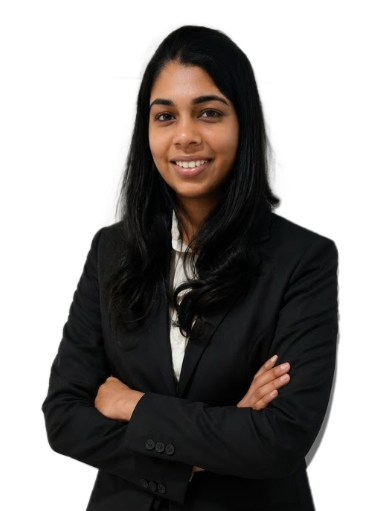
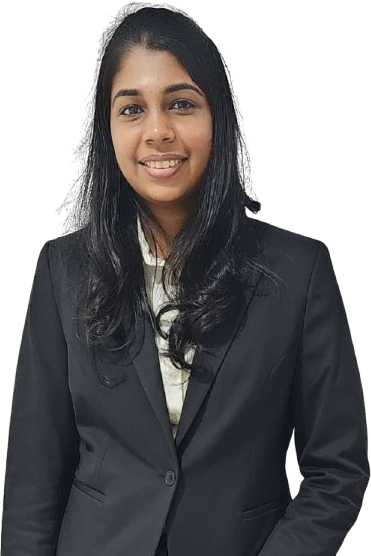
feat: replace hero portrait with new high-resolution photo in exact same size and position

diff --git a/index.html b/index.html
@@ -15,7 +15,7 @@
   <link rel="preconnect" href="https://fonts.gstatic.com" crossorigin>
   <link href="https://fonts.googleapis.com/css2?family=Instrument+Serif:ital@0;1&family=JetBrains+Mono:wght@300;400;500;600&family=Plus+Jakarta+Sans:wght@300;400;500;600;700&family=Syne:wght@400;600;700;800&display=swap" rel="stylesheet">
   
-  <link rel="stylesheet" href="style.css?v=3.4">
+  <link rel="stylesheet" href="style.css?v=3.5">
 </head>
 <body>
 
@@ -105,7 +105,7 @@
       <div class="hero-portrait-stage">
         <div class="hero-portrait-container" id="heroPortraitContainer">
           <img 
-            src="assets/shruthi-human.png?v=3.2" 
+            src="assets/shruthi-human.png?v=3.5" 
             alt="Shruthi Sundar — Product Thinker" 
             class="hero-image human-base" 
             id="humanBaseImg"
@@ -797,6 +797,6 @@
 
   </div>
 
-  <script src="main.js?v=3.4"></script>
+  <script src="main.js?v=3.5"></script>
 </body>
 </html>

diff --git a/style.css b/style.css
@@ -460,8 +460,8 @@ body.nav-locked {
 
 .hero-portrait-container {
   position: relative;
-  width: clamp(380px, 32vw, 520px);
-  aspect-ratio: 380 / 511;
+  width: clamp(370px, 31vw, 510px);
+  aspect-ratio: 371 / 556;
   max-width: 90vw;
   margin: 0 auto;
   user-select: none;
@@ -2810,7 +2810,7 @@ body.nav-locked {
     height: clamp(340px, 48vh, 460px);
     max-height: 48vh;
     width: auto;
-    aspect-ratio: 380 / 511;
+    aspect-ratio: 371 / 556;
     max-width: 88vw;
     margin: 0 auto;
   }
@@ -2866,6 +2866,7 @@ body.nav-locked {
   .hero-portrait-container {
     height: clamp(320px, 48vh, 430px);
     max-height: 48vh;
+    aspect-ratio: 371 / 556;
     max-width: 88vw;
   }
   .hero-statement-section {

diff --git a/ai-virtual-tryon.html b/ai-virtual-tryon.html
@@ -14,7 +14,7 @@
   <link rel="preconnect" href="https://fonts.gstatic.com" crossorigin>
   <link href="https://fonts.googleapis.com/css2?family=Instrument+Serif:ital@0;1&family=JetBrains+Mono:wght@300;400;500;600&family=Plus+Jakarta+Sans:wght@300;400;500;600;700&family=Syne:wght@400;600;700;800&display=swap" rel="stylesheet">
   
-  <link rel="stylesheet" href="style.css?v=3.4">
+  <link rel="stylesheet" href="style.css?v=3.5">
 </head>
 <body class="case-study-page-wrapper">
 
@@ -160,6 +160,6 @@
 
   </main>
 
-  <script src="main.js?v=3.4"></script>
+  <script src="main.js?v=3.5"></script>
 </body>
 </html>

diff --git a/dine-in-now.html b/dine-in-now.html
@@ -14,7 +14,7 @@
   <link rel="preconnect" href="https://fonts.gstatic.com" crossorigin>
   <link href="https://fonts.googleapis.com/css2?family=Instrument+Serif:ital@0;1&family=JetBrains+Mono:wght@300;400;500;600&family=Plus+Jakarta+Sans:wght@300;400;500;600;700&family=Syne:wght@400;600;700;800&display=swap" rel="stylesheet">
   
-  <link rel="stylesheet" href="style.css?v=3.4">
+  <link rel="stylesheet" href="style.css?v=3.5">
 </head>
 <body class="case-study-page-wrapper">
 
@@ -160,6 +160,6 @@
 
   </main>
 
-  <script src="main.js?v=3.4"></script>
+  <script src="main.js?v=3.5"></script>
 </body>
 </html>

diff --git a/job-tracker.html b/job-tracker.html
@@ -14,7 +14,7 @@
   <link rel="preconnect" href="https://fonts.gstatic.com" crossorigin>
   <link href="https://fonts.googleapis.com/css2?family=Instrument+Serif:ital@0;1&family=JetBrains+Mono:wght@300;400;500;600&family=Plus+Jakarta+Sans:wght@300;400;500;600;700&family=Syne:wght@400;600;700;800&display=swap" rel="stylesheet">
   
-  <link rel="stylesheet" href="style.css?v=3.4">
+  <link rel="stylesheet" href="style.css?v=3.5">
 </head>
 <body class="case-study-page-wrapper">
 
@@ -206,6 +206,6 @@
 
   </main>
 
-  <script src="main.js?v=3.4"></script>
+  <script src="main.js?v=3.5"></script>
 </body>
 </html>

diff --git a/mango-factory.html b/mango-factory.html
@@ -14,7 +14,7 @@
   <link rel="preconnect" href="https://fonts.gstatic.com" crossorigin>
   <link href="https://fonts.googleapis.com/css2?family=Instrument+Serif:ital@0;1&family=JetBrains+Mono:wght@300;400;500;600&family=Plus+Jakarta+Sans:wght@300;400;500;600;700&family=Syne:wght@400;600;700;800&display=swap" rel="stylesheet">
   
-  <link rel="stylesheet" href="style.css?v=3.4">
+  <link rel="stylesheet" href="style.css?v=3.5">
 </head>
 <body class="case-study-page-wrapper">
 
@@ -177,6 +177,6 @@
 
   </main>
 
-  <script src="main.js?v=3.4"></script>
+  <script src="main.js?v=3.5"></script>
 </body>
 </html>

diff --git a/office-tracker.html b/office-tracker.html
@@ -14,7 +14,7 @@
   <link rel="preconnect" href="https://fonts.gstatic.com" crossorigin>
   <link href="https://fonts.googleapis.com/css2?family=Instrument+Serif:ital@0;1&family=JetBrains+Mono:wght@300;400;500;600&family=Plus+Jakarta+Sans:wght@300;400;500;600;700&family=Syne:wght@400;600;700;800&display=swap" rel="stylesheet">
   
-  <link rel="stylesheet" href="style.css?v=3.4">
+  <link rel="stylesheet" href="style.css?v=3.5">
 </head>
 <body class="case-study-page-wrapper">
 
@@ -208,6 +208,6 @@
 
   </main>
 
-  <script src="main.js?v=3.4"></script>
+  <script src="main.js?v=3.5"></script>
 </body>
 </html>

diff --git a/ownly.html b/ownly.html
@@ -14,7 +14,7 @@
   <link rel="preconnect" href="https://fonts.gstatic.com" crossorigin>
   <link href="https://fonts.googleapis.com/css2?family=Instrument+Serif:ital@0;1&family=JetBrains+Mono:wght@300;400;500;600&family=Plus+Jakarta+Sans:wght@300;400;500;600;700&family=Syne:wght@400;600;700;800&display=swap" rel="stylesheet">
   
-  <link rel="stylesheet" href="style.css?v=3.4">
+  <link rel="stylesheet" href="style.css?v=3.5">
 </head>
 <body class="case-study-page-wrapper">
 
@@ -161,6 +161,6 @@
 
   </main>
 
-  <script src="main.js?v=3.4"></script>
+  <script src="main.js?v=3.5"></script>
 </body>
 </html>
